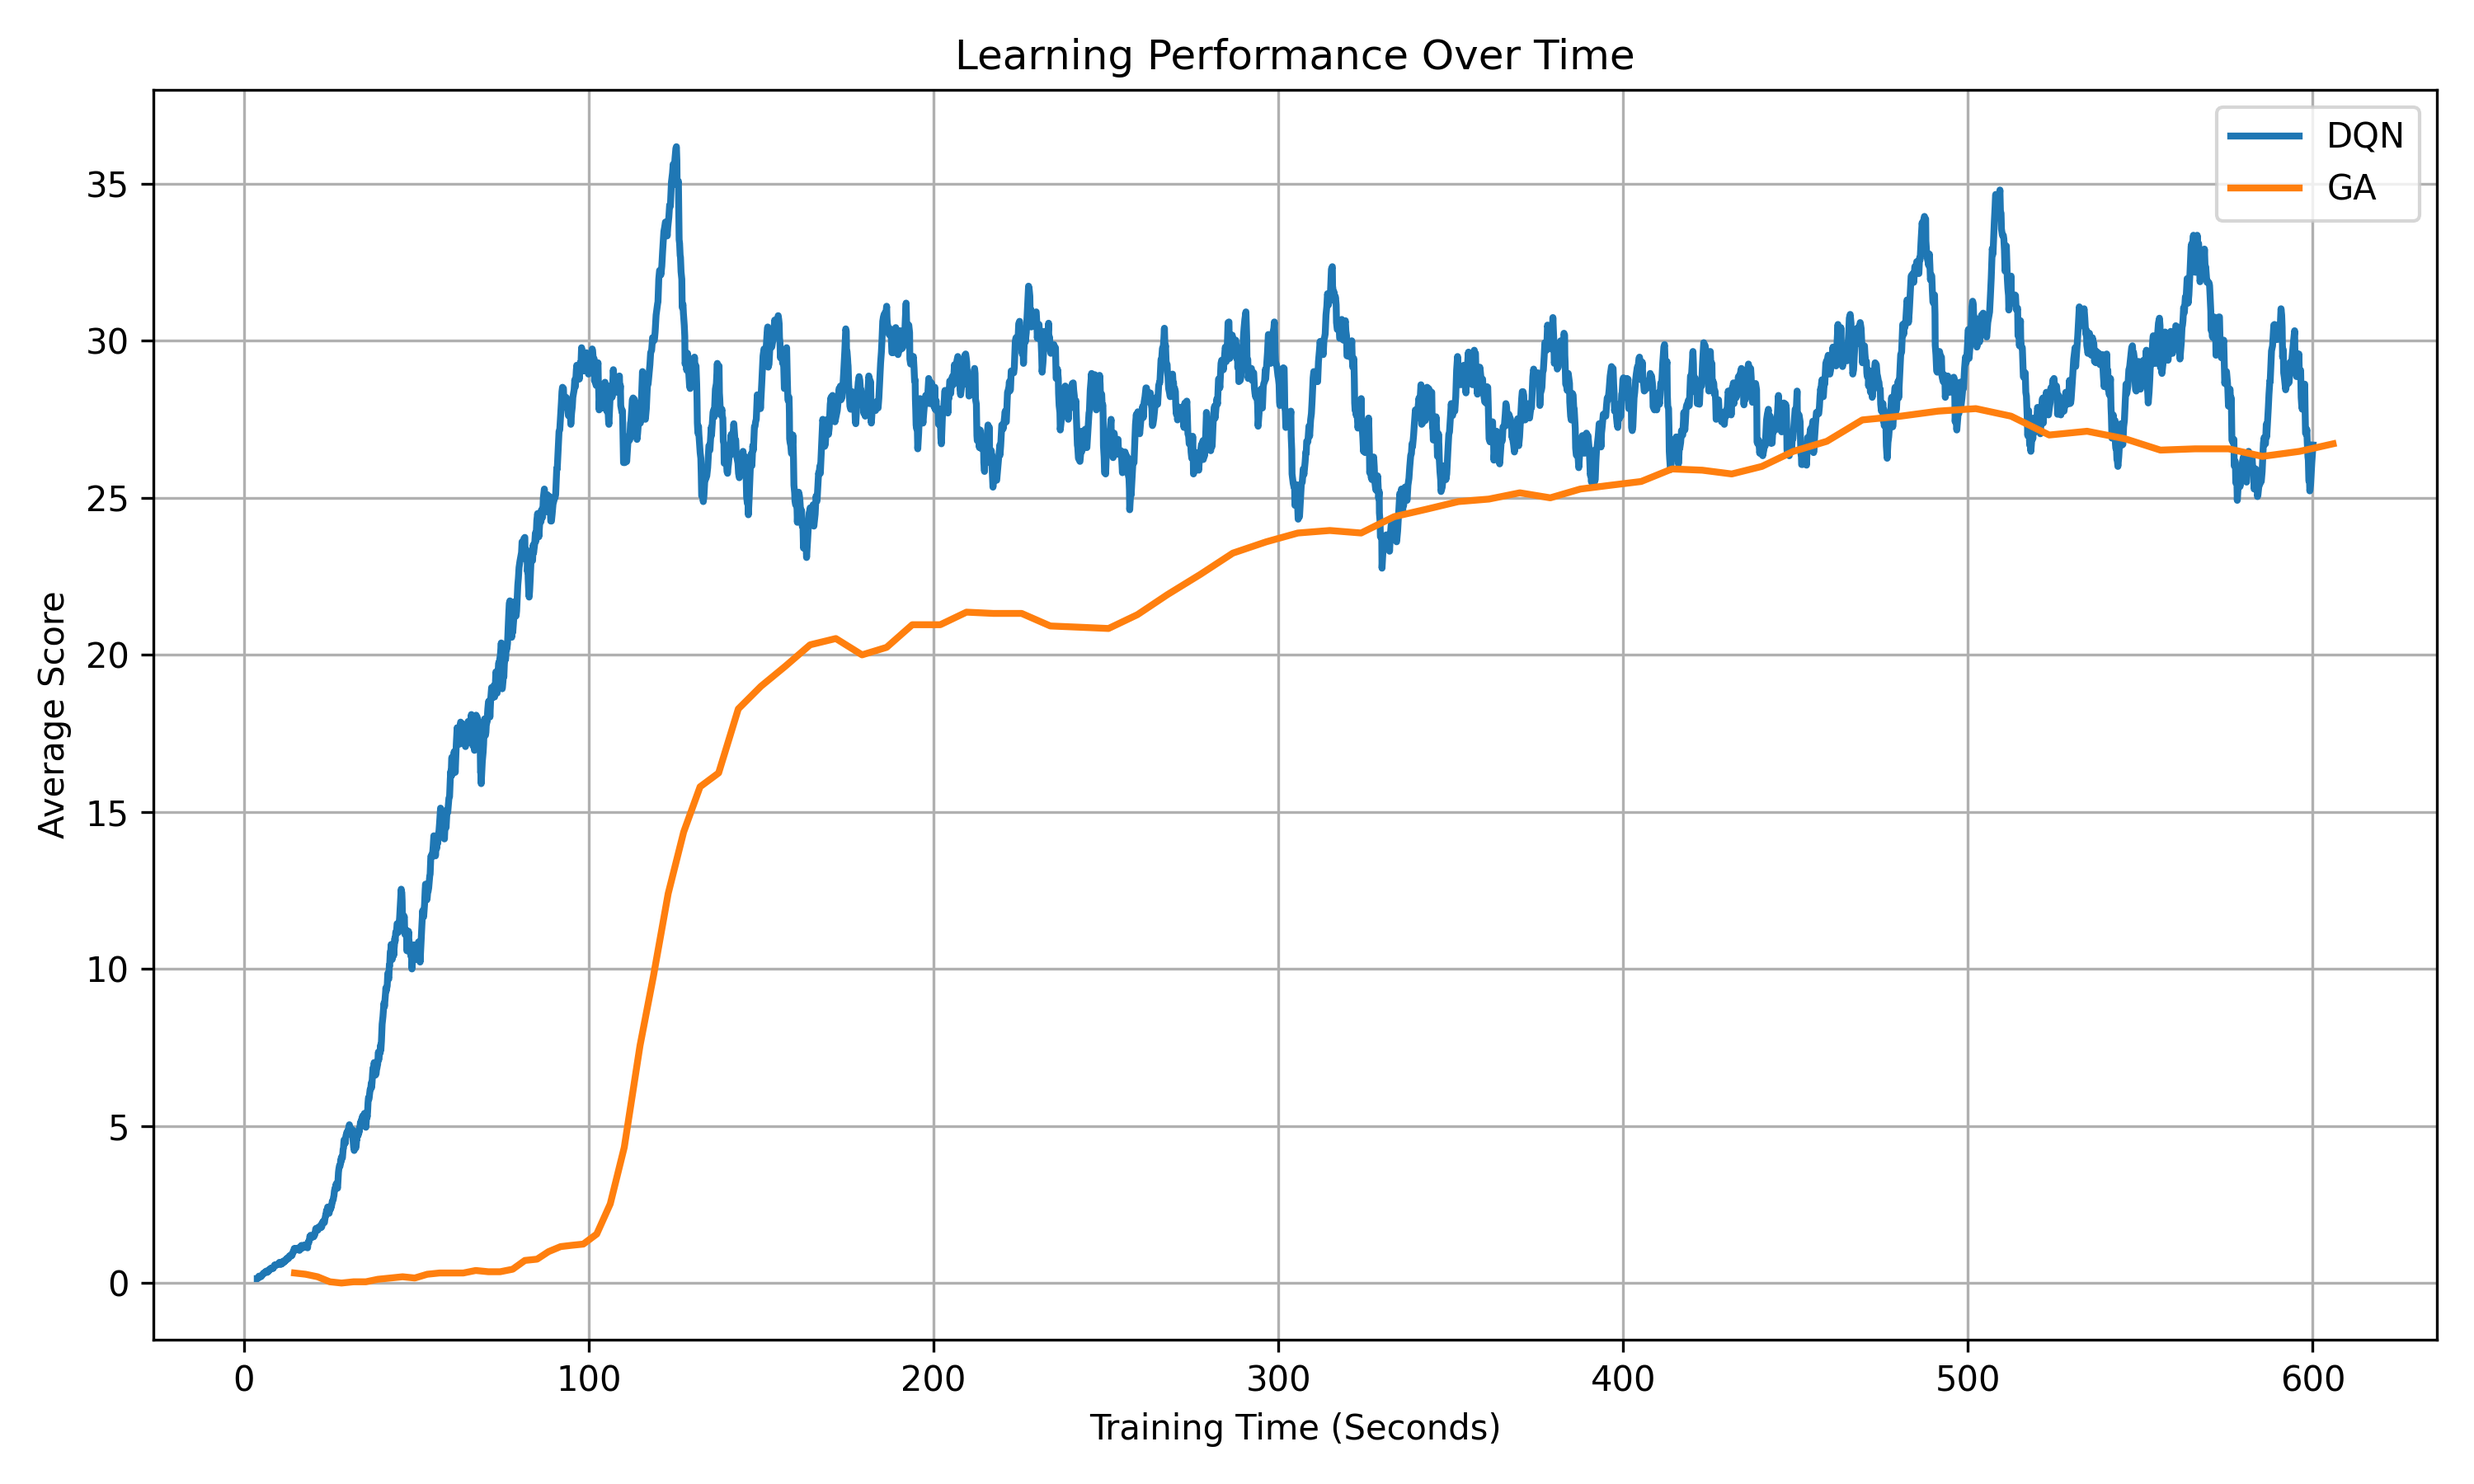
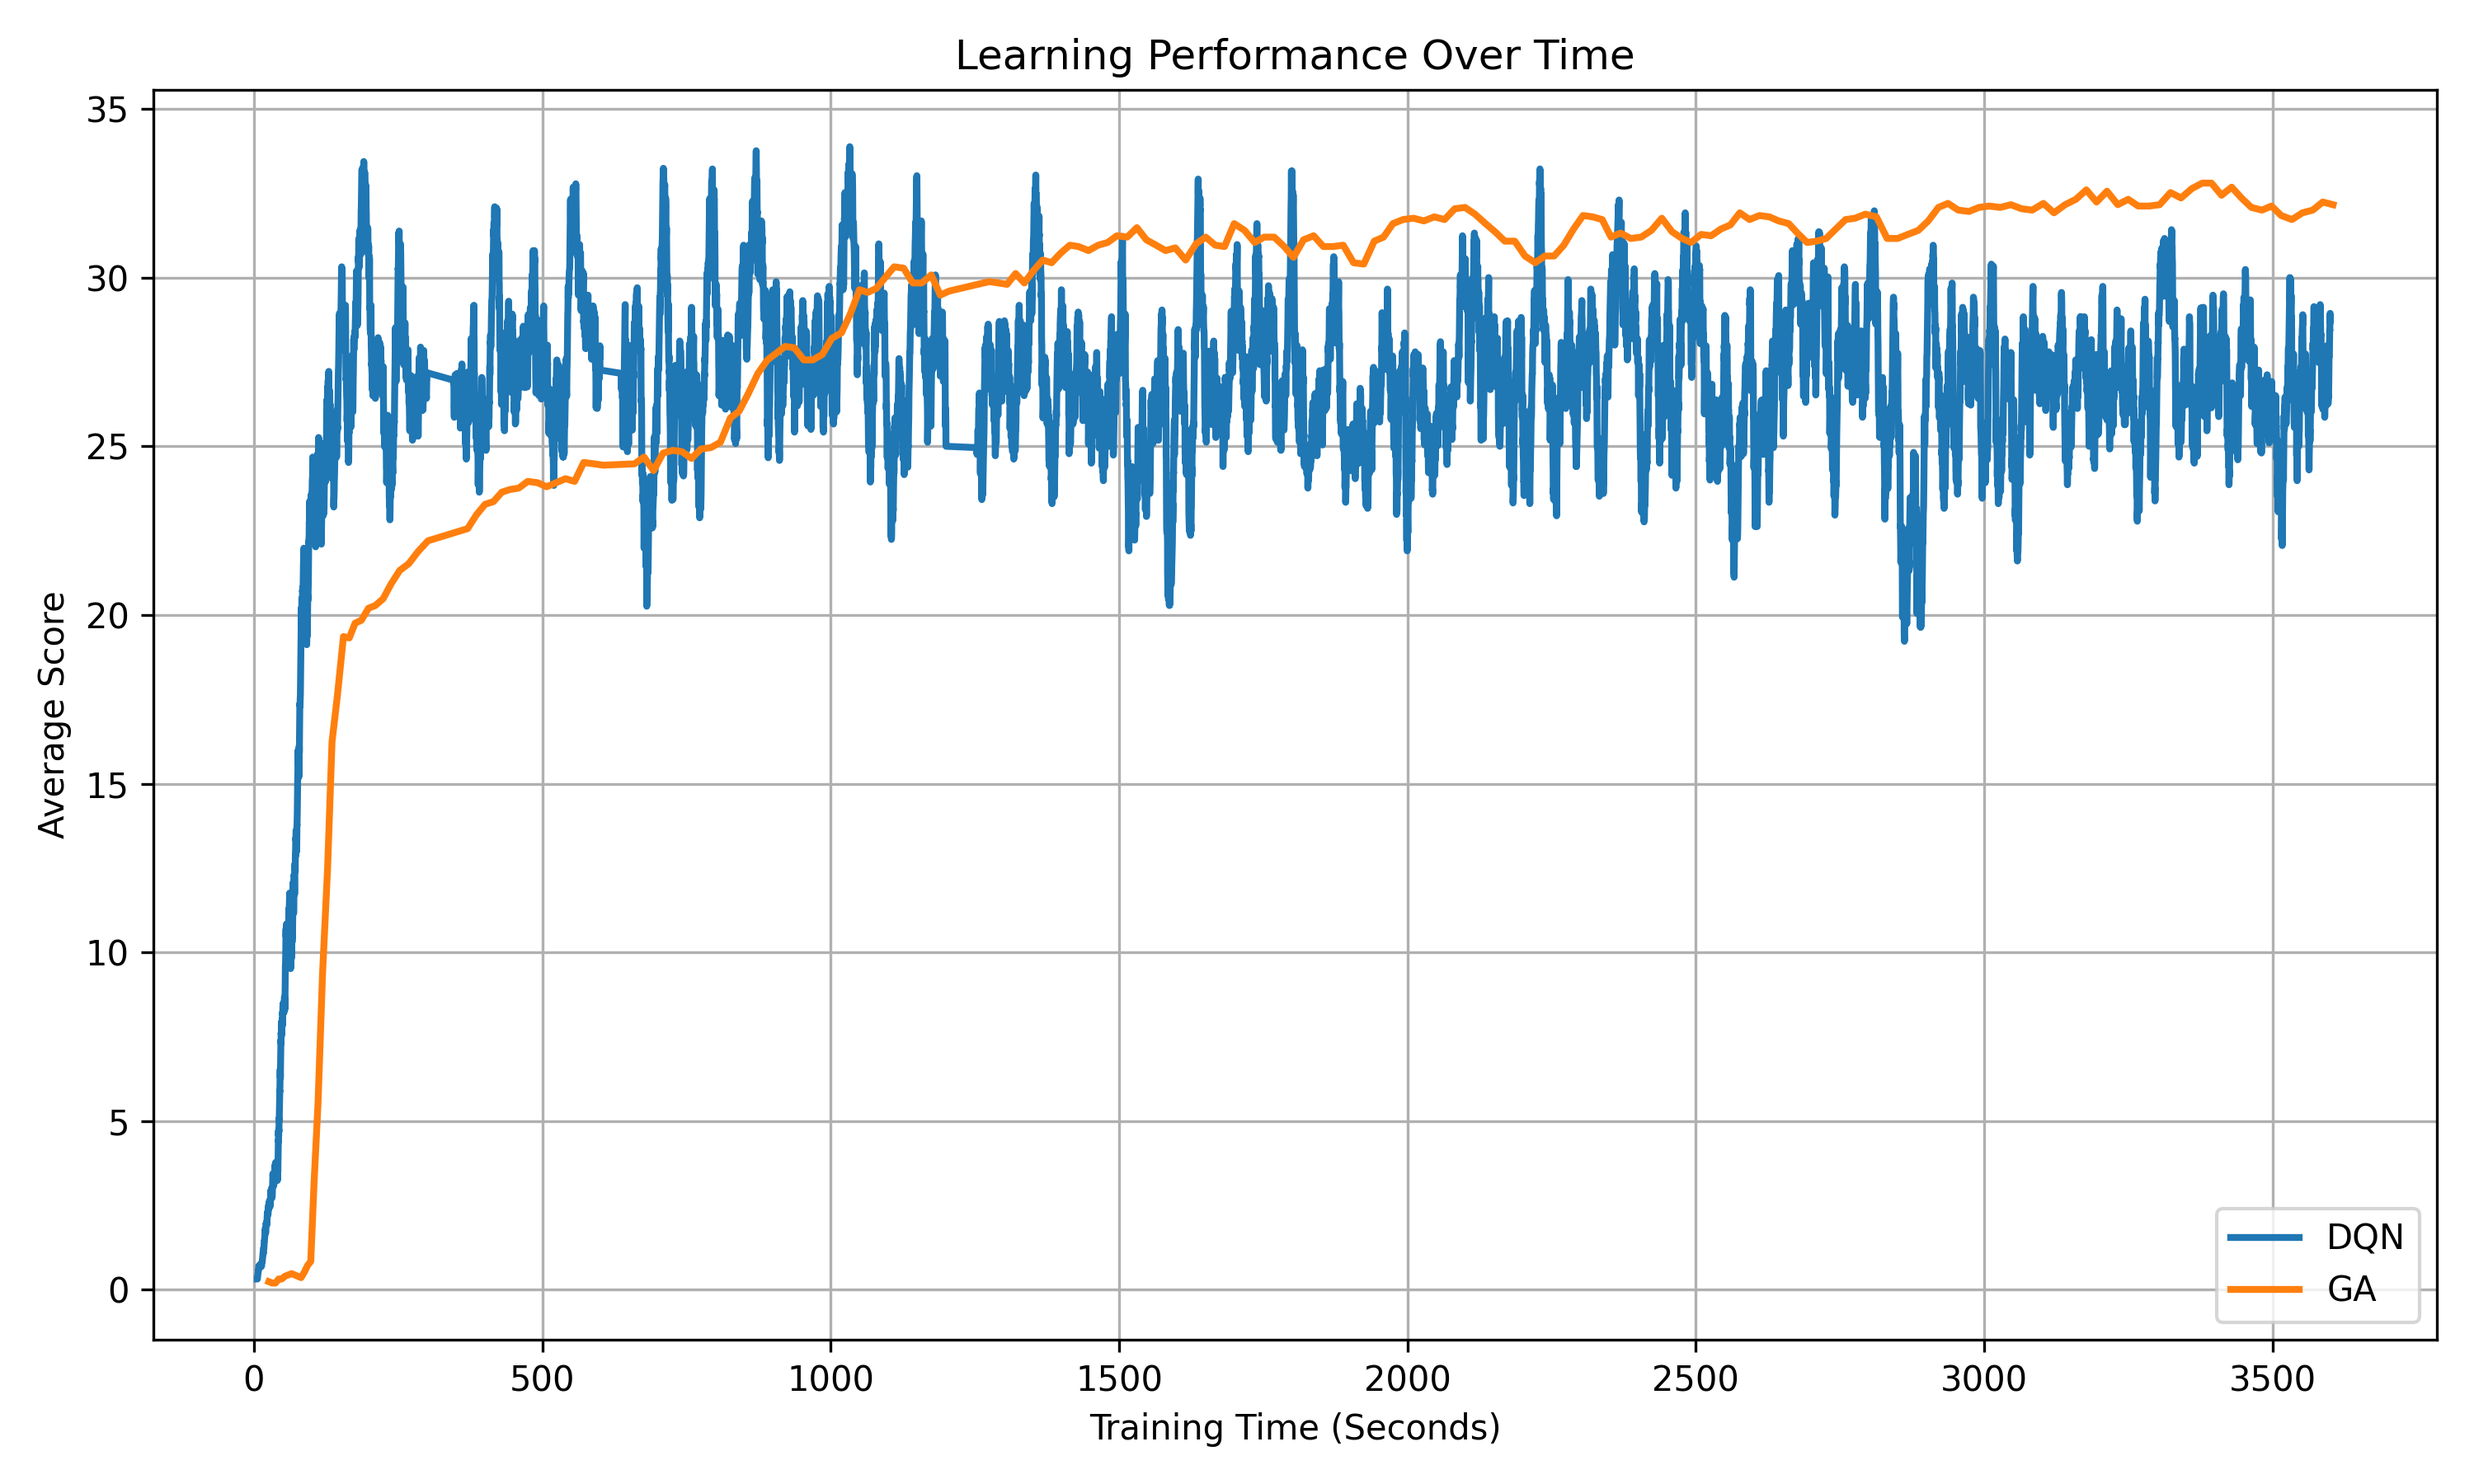
Fixing dqn and ga recordings

diff --git a/compare_models.py b/compare_models.py
@@ -5,121 +5,95 @@ from dqn_train import train_dqn
 from ga_train import train_ga
 
 
-def moving_average(data, window=50):
+CHECKPOINTS_MIN = [5, 10, 20, 60]
+CHECKPOINTS_SEC = [t * 60 for t in CHECKPOINTS_MIN]
 
+
+def moving_average(data, window):
     if len(data) < window:
         return data
+    return np.convolve(data, np.ones(window) / window, mode='valid')
 
-    return np.convolve(
-        data,
-        np.ones(window) / window,
-        mode='valid'
-    )
+
+def score_at_checkpoint(times, scores, target_sec):
+    for i in range(len(times) - 1, -1, -1):
+        if times[i] <= target_sec:
+            return scores[i]
+    return scores[0]
 
 
 def run_comparison():
 
     print("--- Træner Deep Q-Learning (DQN) ---")
-
-    dqn_data = train_dqn(
-        record_every=0
-    )
+    dqn_data = train_dqn(record_every=0)
 
     print("\n--- Træner Genetic Algorithm (GA) ---")
+    ga_data = train_ga(record_every=0)
 
-    ga_data = train_ga(
-        record_every=0
-    )
-
-    # -------------------------
-    # Udpak DQN data
-    # -------------------------
-
-    dqn_times = [d[0] for d in dqn_data]
+    dqn_times = [d[0] / 60 for d in dqn_data]   # sekunder → minutter
     dqn_scores = [d[1] for d in dqn_data]
 
-    # -------------------------
-    # Udpak GA data
-    # -------------------------
-
-    ga_times = [g[0] for g in ga_data]
+    ga_times = [g[0] / 60 for g in ga_data]
     ga_scores = [g[1] for g in ga_data]
 
+    # DQN: window proportinonalt med datamængden (~1% af episoder)
+    dqn_window = max(10, len(dqn_scores) // 100)
+    ga_window = max(3, len(ga_scores) // 20)
+
+    dqn_avg = moving_average(dqn_scores, dqn_window)
+    ga_avg = moving_average(ga_scores, ga_window)
+
+    dqn_times_sm = dqn_times[dqn_window - 1:]
+    ga_times_sm = ga_times[ga_window - 1:]
+
     # -------------------------
-    # Moving average
+    # Checkpoint-scores til tabel
     # -------------------------
 
-    dqn_window = 50
-    ga_window = 5
+    print("\n--- Gennemsnitsscore ved checkpoints ---")
+    print(f"{'Tid':>8} | {'DQN avg':>10} | {'GA avg':>10}")
+    print("-" * 34)
 
-    dqn_avg_scores = moving_average(
-        dqn_scores,
-        dqn_window
-    )
-
-    ga_avg_scores = moving_average(
-        ga_scores,
-        ga_window
-    )
-
-    dqn_times_smoothed = dqn_times[dqn_window - 1:]
-    ga_times_smoothed = ga_times[ga_window - 1:]
+    dqn_cp = []
+    ga_cp = []
+    for cp_sec, cp_min in zip(CHECKPOINTS_SEC, CHECKPOINTS_MIN):
+        cp_min_f = cp_sec / 60
+        d = score_at_checkpoint(dqn_times_sm, dqn_avg, cp_min_f)
+        g = score_at_checkpoint(ga_times_sm, ga_avg, cp_min_f)
+        dqn_cp.append(d)
+        ga_cp.append(g)
+        print(f"{cp_min:>5} min | {d:>10.1f} | {g:>10.1f}")
 
     # -------------------------
     # Plot
     # -------------------------
 
-    plt.figure(figsize=(10, 6))
+    fig, ax = plt.subplots(figsize=(11, 6))
 
-    plt.plot(
-        dqn_times_smoothed,
-        dqn_avg_scores,
-        label="DQN",
-        linewidth=2
-    )
+    ax.plot(dqn_times_sm, dqn_avg, label="DQN (Deep Q-Learning)", linewidth=2, color="steelblue")
+    ax.plot(ga_times_sm, ga_avg, label="GA (Genetic Algorithm)", linewidth=2, color="darkorange")
 
-    plt.plot(
-        ga_times_smoothed,
-        ga_avg_scores,
-        label="GA",
-        linewidth=2
-    )
+    # Checkpoint-linjer og annotations
+    for cp_min, d, g in zip(CHECKPOINTS_MIN, dqn_cp, ga_cp):
+        ax.axvline(x=cp_min, color="gray", linestyle="--", linewidth=0.8, alpha=0.6)
+        ax.annotate(f"{d:.0f}", xy=(cp_min, d), xytext=(cp_min + 0.3, d + 1),
+                    color="steelblue", fontsize=8, fontweight="bold")
+        ax.annotate(f"{g:.0f}", xy=(cp_min, g), xytext=(cp_min + 0.3, g - 2.5),
+                    color="darkorange", fontsize=8, fontweight="bold")
 
-    plt.title(
-        "Learning Performance Over Time"
-    )
-
-    plt.xlabel(
-        "Training Time (Seconds)"
-    )
-
-    plt.ylabel(
-        "Average Score"
-    )
-
-    plt.legend()
-
-    plt.grid(True)
-
+    ax.set_title("Learning Performance Over Time\n(DQN vs Genetic Algorithm — Snake Game)", fontsize=13)
+    ax.set_xlabel("Training Time (Minutes)")
+    ax.set_ylabel("Average Score")
+    ax.set_xticks(CHECKPOINTS_MIN)
+    ax.set_xticklabels([f"{m} min" for m in CHECKPOINTS_MIN])
+    ax.legend(fontsize=11)
+    ax.grid(True, alpha=0.4)
     plt.tight_layout()
 
-    # -------------------------
-    # Gem graf
-    # -------------------------
-
-    plt.savefig(
-        "comparison_plot.png",
-        dpi=300
-    )
-
-    print(
-        "\nGraf gemt som "
-        "'comparison_plot.png'"
-    )
-
+    fig.savefig("comparison_plot.png", dpi=300)
+    print("\nGraf gemt som 'comparison_plot.png'")
     plt.show()
 
 
 if __name__ == "__main__":
-
     run_comparison()

diff --git a/dqn_train.py b/dqn_train.py
@@ -120,22 +120,35 @@ class DQNAgent:
         self.epsilon = max(self.epsilon_min, self.epsilon * self.epsilon_decay)
 
 
-def record_episode(model: LinearQNet, filename: str, *, max_steps: int = 1000):
-    env = SnakeEnv(render=True, speed=20)
-    recorder = EnvVideoRecorder(env)
+def record_episode(model: LinearQNet, filename: str, *, max_steps: int = 10000, n_attempts: int = 5):
+    import imageio
+    best_score = -1
+    best_frames = []
 
-    state = recorder.reset()
-    for _ in range(max_steps):
-        recorder.render()
-        state0 = torch.tensor(state, dtype=torch.float)
-        action = int(torch.argmax(model(state0)).item())
-        state, reward, done, _, info = recorder.step(action)
-        if done:
-            break
+    for _ in range(n_attempts):
+        env = SnakeEnv(render=True, speed=20)
+        recorder = EnvVideoRecorder(env)
+        state = recorder.reset()
+
+        for _ in range(max_steps):
+            recorder.render()
+            state0 = torch.tensor(state, dtype=torch.float)
+            action = int(torch.argmax(model(state0)).item())
+            state, reward, done, _, info = recorder.step(action)
+            if done:
+                break
+
+        score = info.get("score", 0)
+        if score > best_score:
+            best_score = score
+            best_frames = list(recorder._frame_buffer)
 
     os.makedirs(os.path.dirname(filename), exist_ok=True)
-    recorder.save(filename)
-    return info.get("score", 0)
+    with imageio.get_writer(filename, fps=30) as writer:
+        for frame in best_frames:
+            writer.append_data(frame)
+
+    return best_score
 
 
 def train_dqn(record_every: int = 50, recordings_dir: str = "recordings"):
@@ -206,8 +219,10 @@ def train_dqn(record_every: int = 50, recordings_dir: str = "recordings"):
                 checkpoints_hit.add(checkpoint)
                 minutes = checkpoint // 60
                 filename = os.path.join(recordings_dir, f"dqn_{minutes}min.mp4")
+                model_path = os.path.join(recordings_dir, f"dqn_{minutes}min.pth")
+                torch.save(agent.model.state_dict(), model_path)
                 rec_score = record_episode(agent.model, filename)
-                print(f"[DQN] Checkpoint {minutes} min — video gemt: {filename} (score: {rec_score})")
+                print(f"[DQN] Checkpoint {minutes} min — model gemt: {model_path} | video score: {rec_score}")
 
         if episode % 10 == 0:
 

diff --git a/ga_train.py b/ga_train.py
@@ -1,4 +1,5 @@
 import os
+import pickle
 import random
 import time
 from dataclasses import dataclass
@@ -200,37 +201,36 @@ def record_episode(
     genome: Genome,
     filename: str,
     *,
-    max_steps: int = 1000
+    max_steps: int = 10000,
+    n_attempts: int = 5
 ):
+    import imageio
+    best_score = -1
+    best_frames = []
 
-    env = SnakeEnv(
-        render=True,
-        speed=20
-    )
+    for _ in range(n_attempts):
+        env = SnakeEnv(render=True, speed=20)
+        recorder = EnvVideoRecorder(env)
+        state = recorder.reset()
 
-    recorder = EnvVideoRecorder(env)
+        for _ in range(max_steps):
+            recorder.render()
+            action = genome.act(state)
+            state, reward, done, _, info = recorder.step(action)
+            if done:
+                break
 
-    state = recorder.reset()
+        score = info.get("score", 0)
+        if score > best_score:
+            best_score = score
+            best_frames = list(recorder._frame_buffer)
 
-    for _ in range(max_steps):
+    os.makedirs(os.path.dirname(filename), exist_ok=True)
+    with imageio.get_writer(filename, fps=30) as writer:
+        for frame in best_frames:
+            writer.append_data(frame)
 
-        recorder.render()
-
-        action = genome.act(state)
-
-        state, reward, done, _, info = recorder.step(action)
-
-        if done:
-            break
-
-    os.makedirs(
-        os.path.dirname(filename),
-        exist_ok=True
-    )
-
-    recorder.save(filename)
-
-    return info.get("score", 0)
+    return best_score
 
 
 def train_ga(
@@ -315,8 +315,11 @@ def train_ga(
                 checkpoints_hit.add(checkpoint)
                 minutes = checkpoint // 60
                 filename = os.path.join(recordings_dir, f"ga_{minutes}min.mp4")
+                genome_path = os.path.join(recordings_dir, f"ga_{minutes}min.pkl")
+                with open(genome_path, "wb") as f:
+                    pickle.dump(best_genome, f)
                 rec_score = record_episode(best_genome, filename)
-                print(f"[GA] Checkpoint {minutes} min — video gemt: {filename} (score: {rec_score})")
+                print(f"[GA] Checkpoint {minutes} min — genome gemt: {genome_path} | video score: {rec_score}")
 
         # optional video recording
         if (
